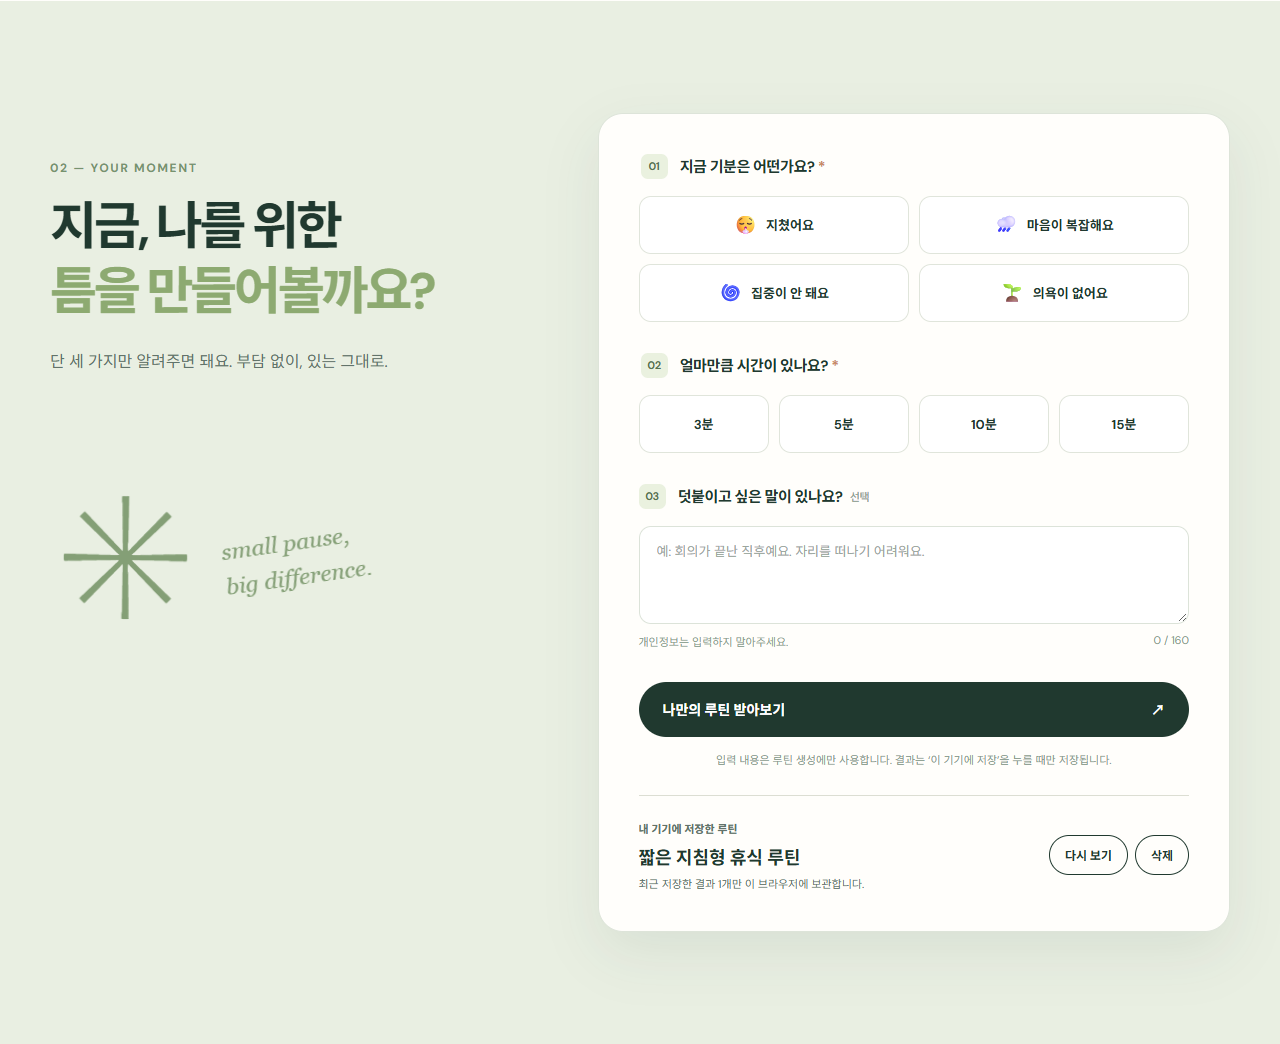
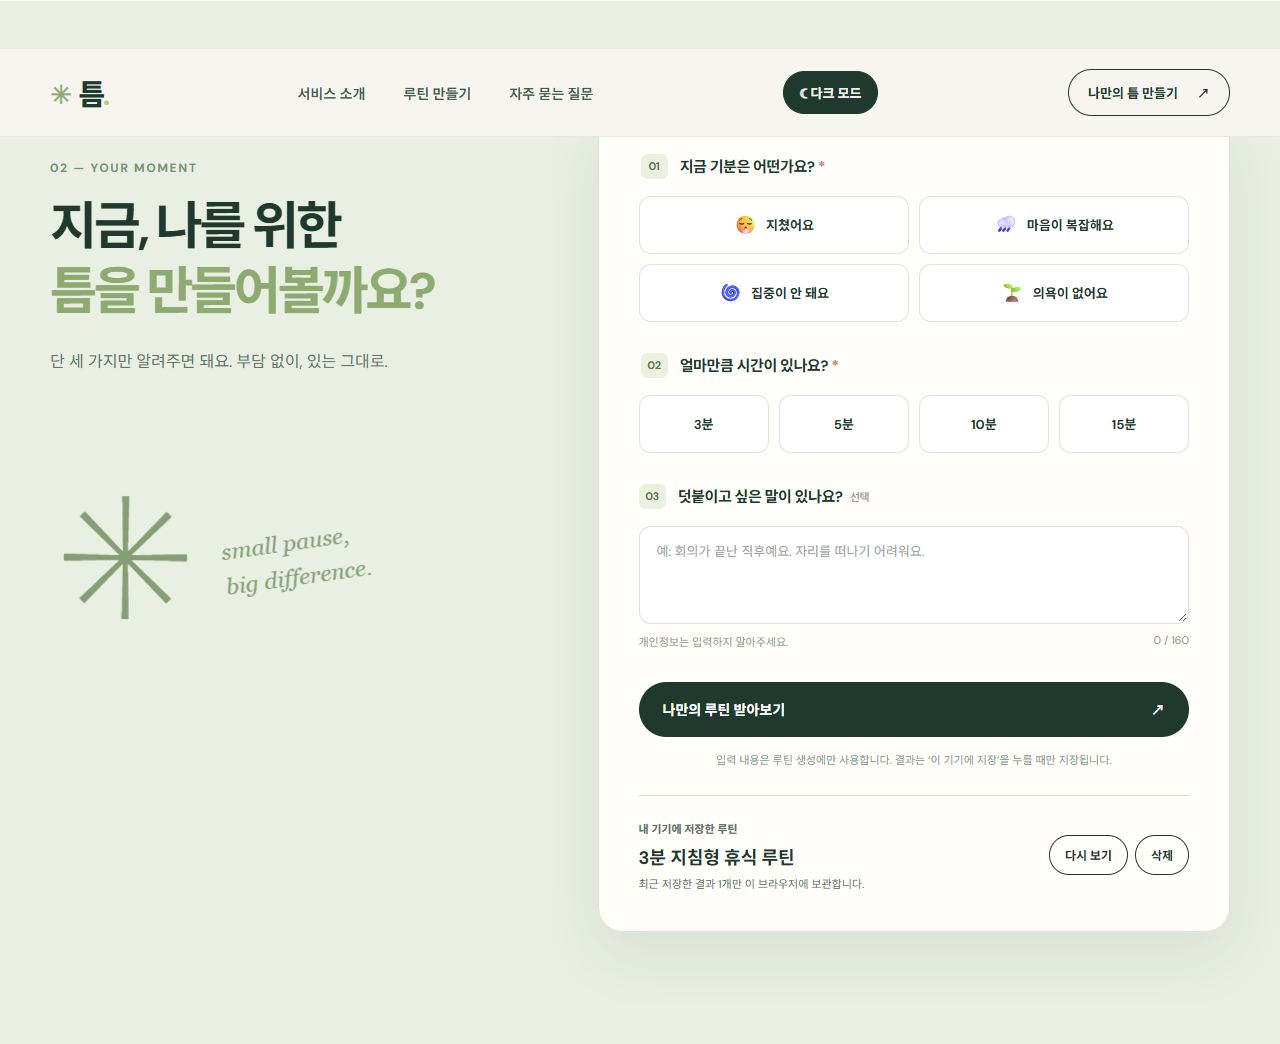
Refresh live screenshots with visible theme switch

diff --git a/docs/AI_WORK_LOG.md b/docs/AI_WORK_LOG.md
@@ -15,6 +15,7 @@
 9. 재배포 후 운영 API에 `지침`·`3분`을 전송하여 200 응답과 3단계의 시간 합 3분을 확인했다. 실제 브라우저에서도 결과가 표시됐다. 첫 캡처에서 단계 제목과 UI의 시간 중복을 발견해 수정하고, 다시 실제 AI 결과를 받아 `docs/evidence/ai-result.png`에 저장했다.
 10. 평가자가 README에서 흐름을 바로 볼 수 있도록 운영 사이트의 히어로·소개·모바일 입력·필수 입력 오류·FAQ 구획을 별도 캡처해 링크했다.
 11. 보너스 과제 원문을 다시 확인해 AI 결과의 선택 저장과 다크 모드를 추가했다. 저장은 브라우저 `localStorage`에 결과 1개만 보관하고 새로고침 뒤 다시 보기·삭제가 가능하도록 했다. 1280px·375px 브라우저에서 전환·저장·삭제와 가로 넘침을 확인했으며, 운영 사이트의 실제 AI 결과를 저장한 화면과 다크 모드를 다시 캡처했다.
+12. 사용자가 다크 모드 버튼을 찾기 어렵다고 알려줘 버튼을 화면 상단의 고정 헤더로 옮겼다. 운영 사이트에서 1280px·960px·375px 화면과 스크롤 중 버튼 노출, 테마 전환·저장·삭제를 다시 확인하고 README의 화면 증빙을 갱신했다.
 
 ## 제출용 화면 증빙
 
